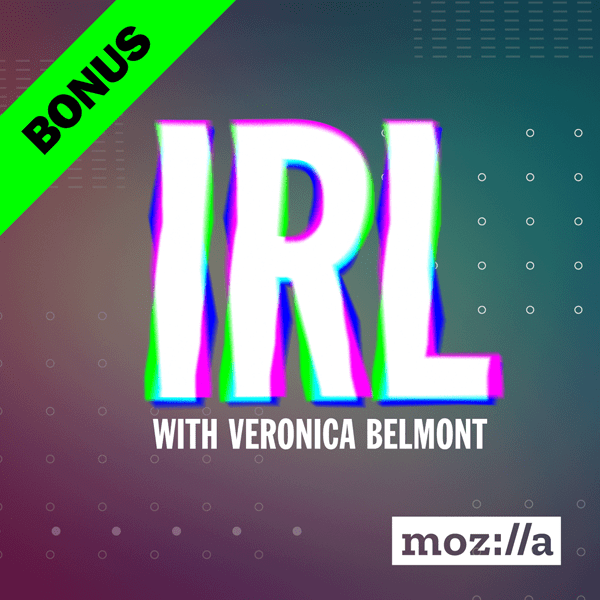
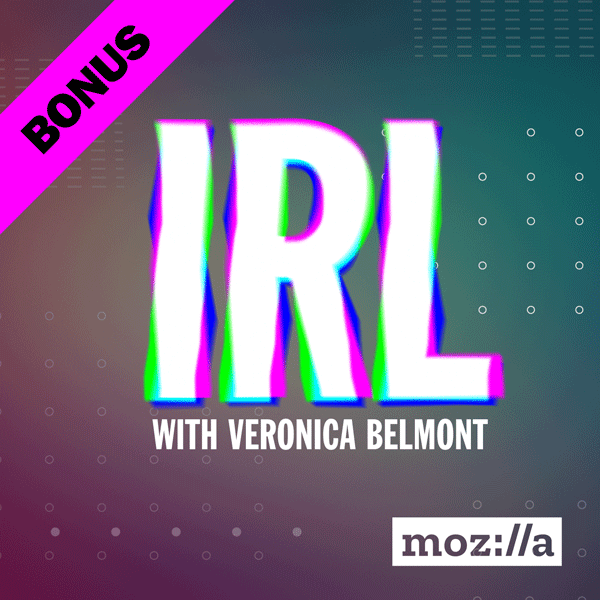
Update bonus ep 2 with transcript and new artwork.

diff --git a/_posts/2017-12-11-bonus-2-net-neutrality-emergency.md b/_posts/2017-12-11-bonus-2-net-neutrality-emergency.md
@@ -12,9 +12,148 @@ description:    "The battle for the open Internet isn’t over. In the days lead
 number:         B2
 show_notes: |
     What does it take to get net neutrality? People like you. Find out more about how you can help [here](https://blog.mozilla.org/netpolicy/2017/11/29/take-get-net-neutrality/).
+transcript: |
+    **Veronica Belmont:** Hey, everyone. It's Veronica. If you support net neutrality like I do and like Mozilla does, this is one of those big deal weeks we all need to pay attention to. On Thursday the United States Federal Communications Commission, the FCC, is expected to take a vote. They'll vote on a proposal to undo the net neutrality protections put in place two years ago. It's all but certain that it will pass. Supporters of the open internet are angry and they're angry at one man in particular, Ajit Pai. He's the chair of the FCC and he's the guy leading the charge to dismantle these rules. This anger, this frustration can be found in nearly every corner of the web. You'll even find it in some of the most harmless and frankly, delightful places like Matt Nelson's Twitter based business, WeRateDogs. It's pretty much what it sounds like.
+    
+    **Matt Nelson:** So, people send in photos and videos of their dogs and I basically go through and pick a couple each day to caption and give a rating out of 10. They usually all get above 10 because dogs are ...
+    
+    **Veronica Belmont:** Amazing.
+    
+    **Matt Nelson:** Better than perfect.
+    
+    **Veronica Belmont:** And as part of this you have another Twitter account called DogFeelings, so what exactly is DogFeelings all about?
+    
+    **Matt Nelson:** I literally talk as if I were a dog and as silly as that sounds, it's now become just as big of a hit as WeRateDogs.
+    
+    **Veronica Belmont:** And so now, how did you discover that FCC chair Ajit Pai is a fan?
+    
+    **Matt Nelson:** So, it was Thanksgiving and it wasn't until after Thanksgiving dinner that a few people just in the mentions were like, "Hey, the FCC chairman just retweeted you." It kind of just set the bells off. Like, "Oh, he likes the account. He follows it. Let's have some fun with this."
+    
+    **Veronica Belmont:** Can you actually read the message that you sent him?
+    
+    **Matt Nelson:** I said, "Hi, I noticed you follow this account. I hope you're enjoying it so far. Just wanted to inform you that starting with the repeal of net neutrality we will block you and this account will be private. However, we have several content options available for purchase listed below. The first one is the Pupper Package at $10 a month. This gives you access to only the super-relatable dog thoughts that require very little creative effort on my part, and then the Pup-O Package is $25 a month and that has access to the Tweets that carry the storyline, introduction to new characters, and then the Dog-O Package at $50 a month, access to all Tweets, the full stories available and all characters unlocked," and then I said, "Oh, no. I actually just received word that none of these packages are available in your area. We will notify you if there are any pupdates." So...
+    
+    **Veronica Belmont:** I would give that a 13 out of 10: “would read those Tweets again”.
+    
+    **Matt Nelson:** Thank you.
+    
+    **Veronica Belmont:** As someone who makes a living running an online business, what worries you most if net neutrality is repealed?
+    
+    **Matt Nelson:** Yeah, I think that it is crazy that I decided to make this account in an Applebee's and I'm sitting here talking to you today. That is a process that can't happen without a free and open internet. My whole story doesn't exist without a free and open internet. I feel like there's an opportunity to remind everyone that this is an issue that's currently unfolding. If net neutrality is repealed that they will notice changes, maybe not immediately, but it's ... I hate using the term "slippery slope," but it's one that applies pretty well in this case.
+    
+    **Veronica Belmont:** I like Matt's approach, giving the FCC chair a bit of his own bark, but it's not just the cute dogs of the internet that are standing up for net neutrality, and that's what today's special bonus episode, you could even call it an emergency episode is all about. A fight to save the open internet doesn't end this week, it's just getting started. I'm Veronica Belmont and this is IRL, because online life is real life. An original podcast from Mozilla.
+    
+    **Protesters:** Fight back, the internet's under attack!
+    
+    **Veronica Belmont:** So right now we're outside the Verizon store. There are a lot of people here. 
+    
+    **Protester 1:** I am currently holding a sign that says, "This LAN," such as a local area network, "was made for you and me. #NetNeutrality."
+    
+    **Protester 2:** My sign says, "Net neutrality is freedom of speech."
+    
+    **Protester 3:** Hide, hide, you can't hide. We see your Verizon side.
+    
+    **Veronica B.:** This is a protest held in New York City last week.
+    
+    **Protesters:** Hide hide, you can't hide. We see your Verizon side.
+    
+    **Veronica Belmont:** Anti-Verizon demonstrations were staged near Verizon stores across the country.
+    
+    **Protester 3:** We see your Verizon side.
+    
+    **Protester 4:** We're protesting in front of Verizon because Verizon is one of the ISPs that stands to benefit from a loss of net neutrality.
+    
+    **Protester 5:** And Ajit Pai was a former lawyer for Verizon and he's still beholden to their interests.
+    
+    **Protester 6:** I'm not a super huge fan of Ajit Pai. I'd call him something else but I don't know what the rating of this podcast is, so I'll leave it to your imaginations.
+    
+    **Protesters:** Stop the FCC. We want net neutrality.
+    
+    **Protester 7:** Net neutrality means that nobody can buy the space that others could otherwise occupy.
+    
+    **Protester 8:** I was born in Ecuador and didn't have net neutrality, and you know what happens there? People have to pay to Tweet when they're not in their houses or not in Wi-Fi place. You know how stupid that is?
+    
+    **Protester 9:** I mean, it's pretty simple to me. It's just corporations who have a big foothold in Congress, trying to get more money and limit people's ability to oppose them and oppose other things.
+    
+    **Protesters:** What do we want? Net neutrality! When do we want it? Forever! What do we want? Net neutrality!
+    
+    **Protester 10:** They say nothing's gonna be different but I say if nothing's gonna be different then why don't you just leave it alone instead of repealing it?
+    
+    **Protester 11:** You know I just want people to have their voices be heard, have someone in Capitol Hill, somebody in the big office being like, "Hey, there's a lot of people here. We should probably listen to them."
+    
+    **Protester 12:** After this I don't see an option. It feels like we're slowly being crushed.
+    
+    **Protesters:** What do we want? Net neutrality! When do we want it now? Forever! What do we want? Net neutrality!
+    
+    **Veronica Belmont:** What is Ajit Pai's rationale for these sweeping changes? On November 28th, Pai delivered a speech outlining his reasoning to the R Street Institute. R Street is a free market think tank. We pulled audio from their Facebook page. Have a listen to some of what he argues.
+    
+    **Ajit Pai:** We had a free and open internet for two decades before 2015 and we will have a free and open internet going forward. So if the plan is on docket December 14th, we will simple reverse the FCC 2015 decision and go back to the pre-2015 framework. We aren't giving anybody a free pass. We are simple shifting from one size fits all preemptive regulation to targeted enforcement that focuses enforcement action on actual market failure or anything [inaudible] conduct. So when you get past all the vile accusations, the fear mongering, the hysteria, here's the frankly boring bottom line, the plan to restore Internet freedom would return to the light touch market based approach under which the internet thrived.
+    
+    **Veronica Belmont:** Pai has never wavered in his belief that too much regulation stifles internet freedom. He seems to have refused to consider alternative perspectives as he built his proposal. If you want to hear Pai's whole speech, find links to the video and the transcript on our website, irlpodcast.org. Plenty of people disagree completely with Pai's argument. Among them members of Pai's own commission.
+    
+    **Mignon Clyburn:** I would vote against what the Republican majority has put forth. They have stated that they don't care about what the American public has said. 
+    
+    **Veronica Belmont:** Mignon Clyburn is a commissioner at the FCC. President Obama nominated her to the post in 2009. 
+    
+    **Mignon Clyburn:** Millions of people have weighed in and they have stated loud and clear the majority of those legitimate comments that have come through the FCC, the calls that we've gotten, the emails that I've gotten, they have been supportive of these net neutrality principles that we put in place in 2015. They're ignoring the will of the people. They're listening to large, established internet service providers, of those well heeled economically and politically connected companies.
+    
+    **Veronica Belmont:** I have to say it feels validating that you sound so frustrated as much as we've been frustrated about this.
+    
+    **Mignon Clyburn:** My goodness. If we hand the keys over to these large corporations we will have gatekeepers, we will be blocked, slowed down, throttled. Our experiences online will be forever changed for the negative.
+    
+    **Veronica Belmont:** Why do you think FCC chair Ajit Pai and the Republican commissioners are so committed to eliminating net neutrality?
+    
+    **Mignon Clyburn:** I cannot begin to answer you as to why we're moving in this direction, which seems so counter to the American experience. It seems so counter to this nation's founding. It seems so counter to innovation and opportunities in this country. December 14th will be a sad day for all of us who care about the openness and the capacity and the ability for us to be able to access and thrive over this platform.
+    
+    **Veronica Belmont:** Mignon Clyburn is one of two Democratic commissioners on the FCC. There are three Republican commissioners, including Ajit Pai. The vote is expected to play out along party lines and we know this because the commissioners supporting repeal have made it clear from the beginning that this is what they will do. So, that's where things stand. What happens next? Beyond protesting, some are preparing for the next round in this fight. Jessica Gonzalez is with a group called Free Press. She was a guest on our show in our first season and I wanted to know how she feels about all of this.
+    
+    **Jessica Gonzalez:** Free Press, if it goes the way we think it's gonna go, we'll sue the FCC. We think we have a really strong case in the courts, and I feel really confident that that is one of the many strategies that can lead us to victory to ultimately guide the path to ensure real, strong net neutrality rules in the future.
+    
+    **Veronica Belmont:** Well, it's crazy though because I mean, we have all this steam, people have been emailing, they've been writing, they've been calling, and yet Ajit Pai is like, "Oh, we're not taking these comments into consideration." So how do people keep up that steam, that intensity when we feel ... They're straight up telling us they're not even listening.
+    
+    **Jessica Gonzalez:** You have to look at Congress. The agency needs the political support of Congress and if we start to show our elected officials that this is the type of issue that their elections will depend on then we can really flip how this issue is treated in DC, and I do believe that when the people are engaged and holding their elected officials accountable that in the long run we will save net neutrality and that this vote on the 14th, it's not the end.
+    
+    **Veronica Belmont:** If you'd like to hear my original interview with Jessica and get a primer on what net neutrality is all about, subscribe to IRL and look up the second episode or find it on our website. So, Free Press is planning to sue, and they won't be the only ones. Dell Cameron is a journalist with Gizmodo. He has a good sense of how this could play out.
+    
+    **Dell Cameron:** Well, the truth is that there's going to be a lengthy legal process that unfolds in the next, probably the next year and a half at least. I think it's very likely that we're gonna see some of the larger tech companies get into this, some sort of trade association representing Google and Twitter and other tech giants join in to sue as well.
+    
+    **Veronica Belmont:** So, beyond arguing that the FCC is wrong, what kind of legal argument would you need to make to convince the court to overturn this decision?
+    
+    **Dell Cameron:** I think the Netflix argument is going to come up probably, Netflix having been throttled in the past.
+    
+    **Veronica Belmont:** Yeah, FYI, this summer Verizon admitted to capping video streaming and was accused of intentionally slowing down Netflix feeds.
+    
+    **Dell Cameron:** I imagine that there will be groups of smaller companies that will get together and say that like look ... Verizon is going to ... For example, is going to enter into some agreement with our larger competitors to ensure that they have the best streaming service or that their website functions at a level you know at which we can't compete and I think ... So, I think that will be one of the primary arguments is that this is going to kill innovation.
+    
+    **Veronica Belmont:** How do you expect ISPs will operate while this is before the courts? Do they have to be careful about every business decision that they make until the courts actually reach a decision?
+    
+    **Dell Cameron:** Yeah, I believe that they will need to be a little bit careful. It's possible that someone will try to get an injunction or what the Court of Appeals calls a stay, meaning that the court will order that the FCC's new rules can't be put into place. So net neutrality will survive for the - while the case is being heard before the court.
+    
+    **Veronica Belmont:** Do you think that this could be an actual election issue in 2020?
+    
+    **Dell Cameron:** I think it's going to be an election issue. I think Republicans specifically care about this. They're adamantly against revoking these rules and I think that the Republican party is kind of  overlooking that. This is part of a broader effort to deregulate the government and to hand an immense amount of power over to American companies and they're just kind of  sliding this one through. It's been done very quickly and I think that Republican voters care about this and they're gonna be pretty pissed off.
+    
+    **Veronica Belmont:** It's true. This issue cuts across political lines. An IPSOS poll found 73% of Republicans and 81% of Democrats want net neutrality to stay. Dell Cameron is with Gizmodo. You want to do something about this? There's still time. You could join the campers who will be occupying the FCC. They'll be surrounding the Washington DC headquarters with concerned citizens instead of corporate lobbyists. Call your senator, call your member of Congress. Done so already? Do it again. Find out more info in the show notes to this episode, irlpodcast.org. One thing we left out of this episode is just how much of a mess the FCC website used for public comments about this has been, and people wrote in, millions of us, overwhelmingly in support of net neutrality, but also bots. Lots and lots of bots. In fact, the commenting process became a scandal of its own with bot swarms polluting the process and making a mockery of public feedback. IRL's second season officially launches on January 8th, and we'll start by diving deep into the world of bots and how they may or may not be influencing politics and civic engagement. Subscribe now so you don't miss a thing. IRL is an original podcast from Mozilla, the nonprofit behind the all new Firefox browser. I'm Veronica Belmont wishing you happy holidays and visions of net neutral sugar plums dancing in your heads.
+    
+    **Protester 4:** I believe that ... 
+    
+    **Protesters:** I believe that ... 
+    
+    **Protester 4:** I believe that we ...
+    
+    **Protesters:** I believe that we ... 
+    
+    **Protester 4:** I believe that we will win 
+    
+    **Protesters:** ... I believe that we will win. I believe that we will win. I believe that we will win. I believe that we will win. I believe that we will win. I believe that we will win. I believe that we will win. I believe that we will win.
 ---
 
 ## Show Notes
 <a name="#shownotes"></a>
 
 {{ page.show_notes }}
+
+## Transcript
+<a name="#transcript"></a>
+
+{{ page.transcript }}
